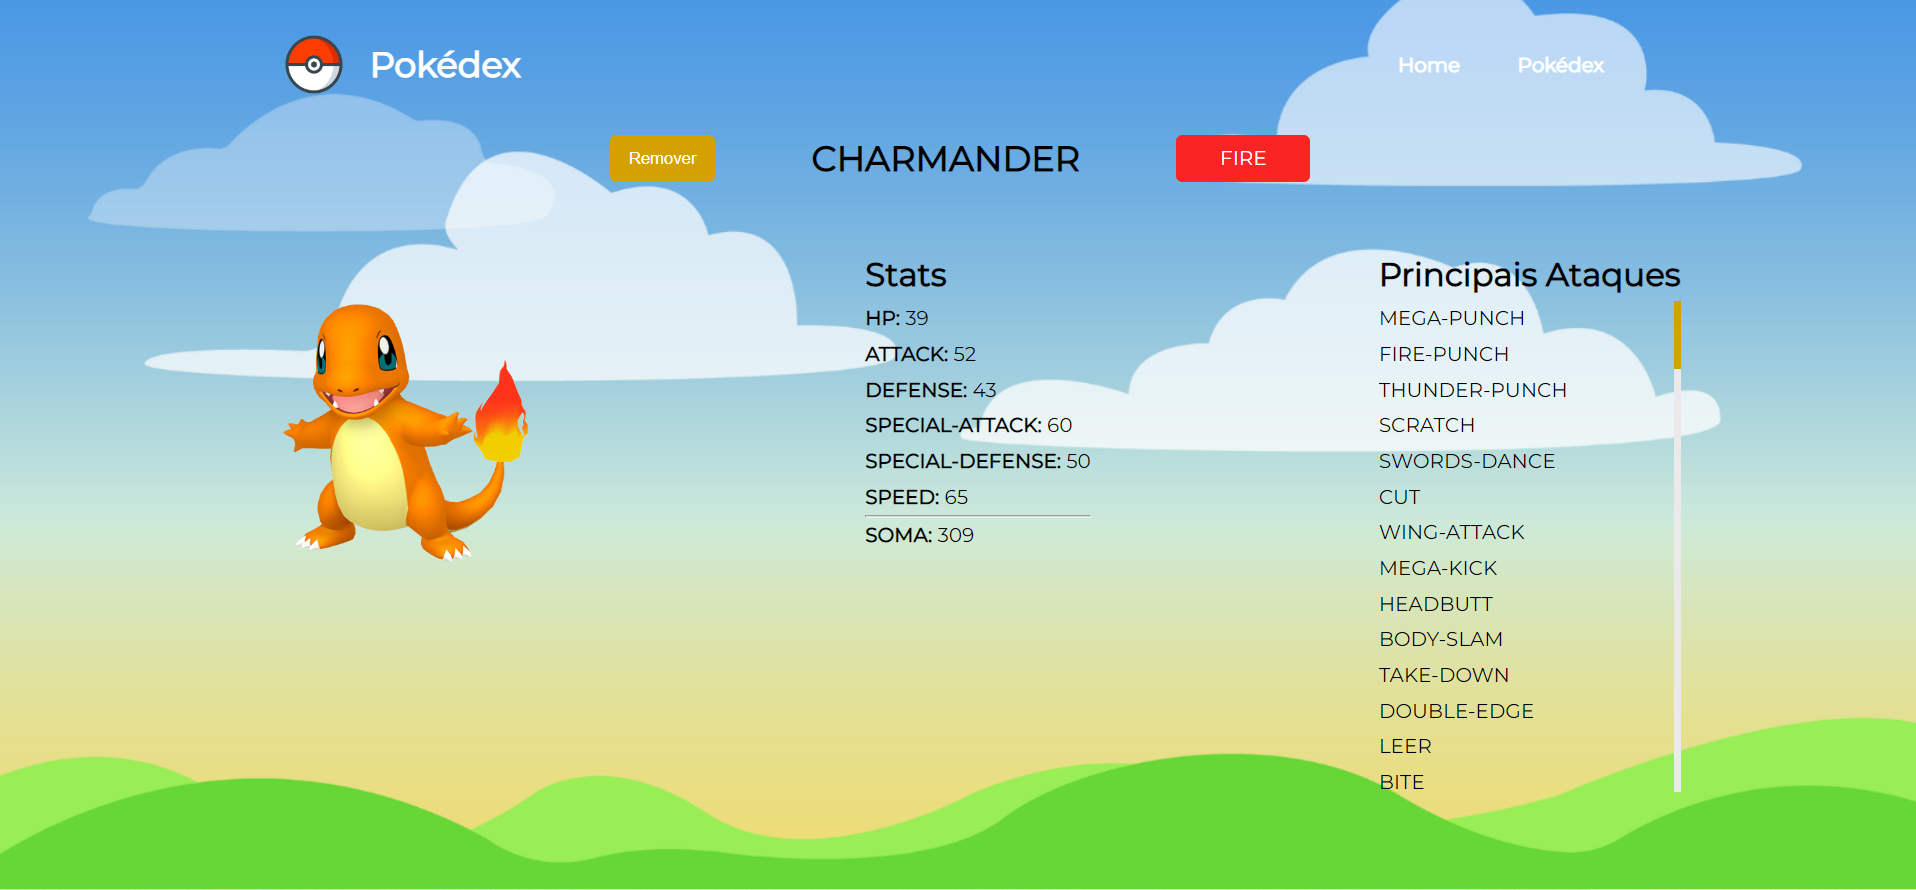
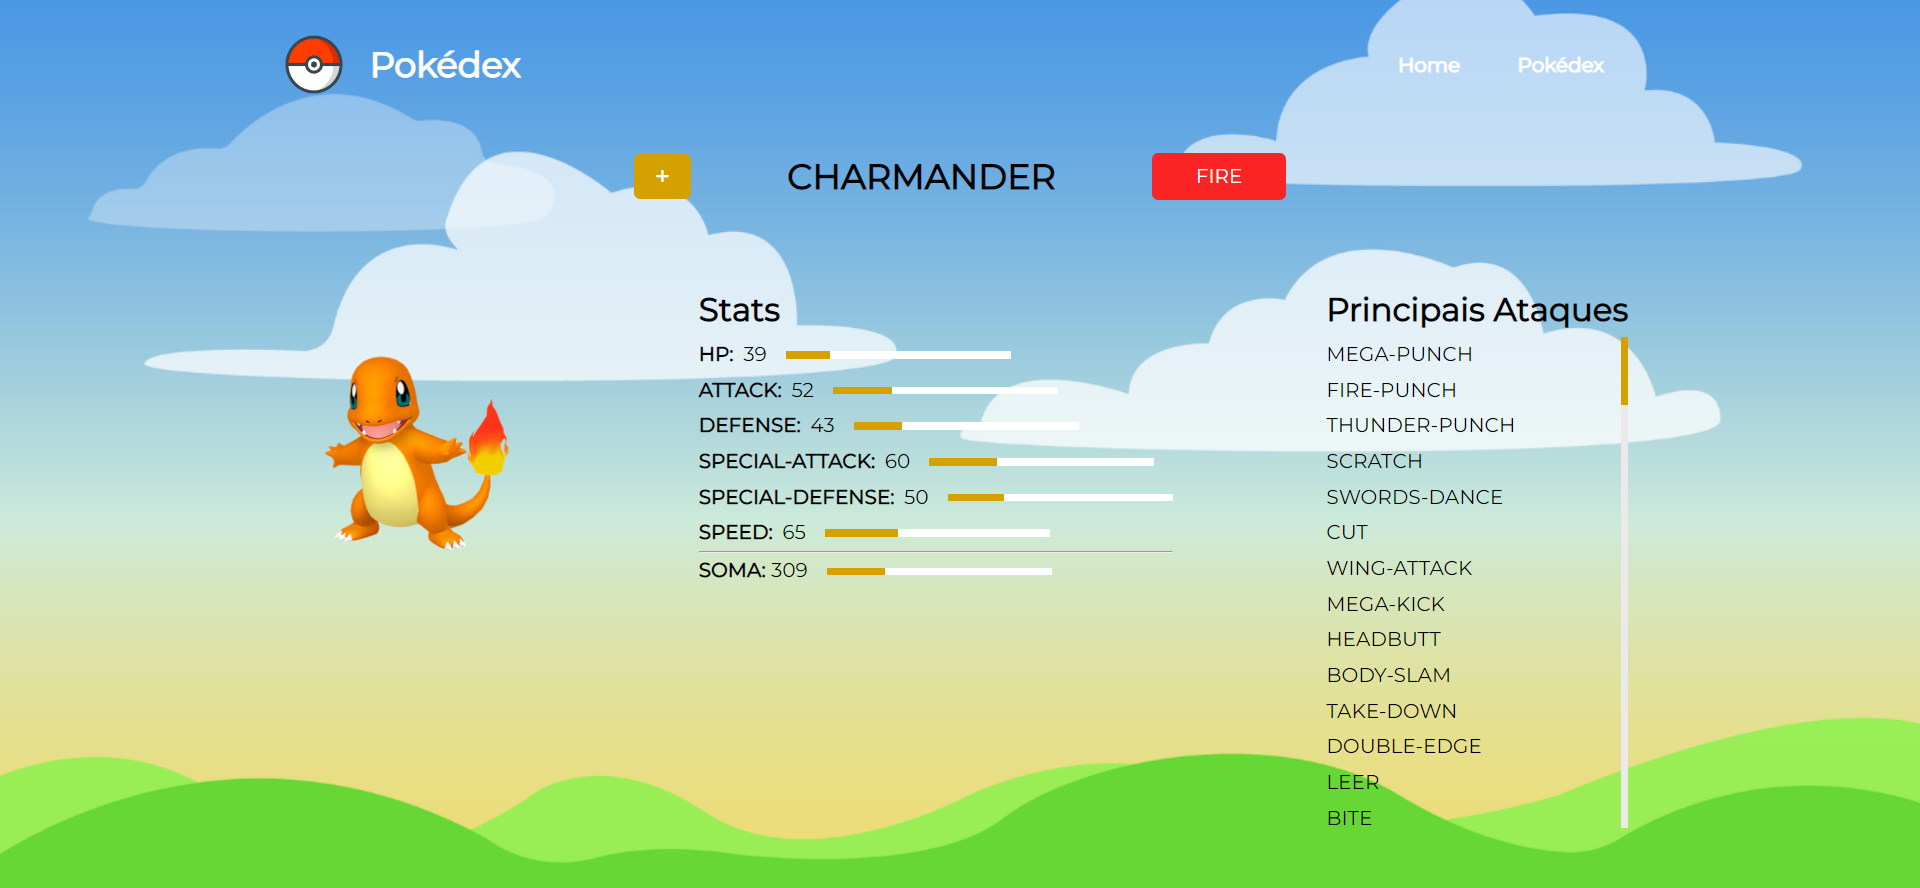
last version

diff --git a/src/components/Pages/DetailsPage/DetailsPage.jsx b/src/components/Pages/DetailsPage/DetailsPage.jsx
@@ -3,7 +3,7 @@ import { Header } from "../../Header/Header"
 import { useParams } from "react-router-dom";
 import { baseUrl } from "../../../constants/constants";
 import useRequestData from '../../../hooks/useRequestData'
-import { DetailsContainer, Container, TypesContainer, Loading, TypeList } from "./style";
+import { DetailsContainer, Container, TypesContainer, Loading, TypeList, PokemonStats } from "./style";
 import logo from '../../../img/logo.png'
 import { GlobalContext } from '../../../context/GlobalContext'
 import Swal from "sweetalert2";
@@ -23,15 +23,28 @@ export function DetailsPage() {
         listOfNames.push(pokedexList[i].name)
     }
 
-    //Pegando os detalhes de cada pokémon
+    //Pegando as stats de cada pokémon e a soma das stats
     let sum = []
     const listStats = dataPokemons && dataPokemons.stats.map((stat, index) => {
         sum.push(stat.base_stat)
+        const bar = (stat.base_stat / 200) * 100
         return (
-            <li key={index}><strong><span>{stat.stat.name.toUpperCase()}:</span></strong> {stat.base_stat}</li>
+            <PokemonStats percentage={bar}>
+                <li key={index}>
+                    <strong>{stat.stat.name.toUpperCase()}:</strong> {stat.base_stat}
+                </li>
+                <div>
+                    <div>
+                    </div>
+                </div>
+            </PokemonStats>
         )
     })
     
+    //Soma das stats
+    const sumStats = sum.reduce((prev, num) => parseInt(prev) + parseInt(num), 0)
+
+    //Tipos dos pokemons e cores de acordo com cada tipo
     const listTypes = dataPokemons && dataPokemons.types.map((type, index) => {  
         
         let colorBack
@@ -123,16 +136,15 @@ export function DetailsPage() {
     })
 
 
+    //Movimentos de cada pokemon
     const listMoves = dataPokemons && dataPokemons.moves.map((move, index) => {
         return (
             <li key={index}>{move.move.name.toUpperCase()}</li>
         )
     })
 
-    //Soma das stats
-    const sumStats = sum.reduce((prev, num) => parseInt(prev) + parseInt(num), 0)
 
-    //Adicionar ou remover pokémon da pokedéx
+    //Adicionar ou remover pokémon da pokédex
     const addOrRemove = () => {
         if(listOfNames.includes(pokemon)) {
             const remove = pokedexList.filter((item) => {
@@ -177,7 +189,12 @@ export function DetailsPage() {
                                 <>
                                     <ul>{listStats}</ul>
                                     <hr/>
-                                    <p><strong>SOMA:</strong> {sumStats}</p>
+                                    <PokemonStats percentage={(sumStats / 1200) * 100}>
+                                        <p><strong>SOMA:</strong> {sumStats}</p>
+                                        <div>
+                                            <div></div>
+                                        </div>
+                                    </PokemonStats>
                                 </>
                             )}
                         </div>    

diff --git a/src/components/Pages/DetailsPage/style.jsx b/src/components/Pages/DetailsPage/style.jsx
@@ -13,14 +13,14 @@ export const Container = styled.section `
     justify-content: center;
     margin: 0 6vw;
     padding-bottom: 5vh;
-    @media screen and (min-width: 1000px) {
-        gap: 15vw;   
+    @media screen and (min-width: 1200px) {
+        gap: 8vw;   
     }
-    @media screen and (min-width: 800px) and (max-width: 1000px) {
-        gap: 10vw;   
+    @media screen and (min-width: 1000px) and (max-width: 1200px) {
+        gap: 6vw;   
     }
-    @media screen and (max-width: 800px) {
-        gap: 5vw;   
+    @media screen and (max-width: 1000px) {
+        gap: 4vw;   
     }
     img {
         @media screen and (min-width: 1300px) {
@@ -28,24 +28,25 @@ export const Container = styled.section `
             height: 20%;
             margin-top: 4vh;
         }
-        @media screen and (min-width: 850px) and (max-width: 1300px) {
+        @media screen and (min-width: 701px) and (max-width: 1300px) {
             width: 20%;
             height: 25%;
             margin-top: 5vh;
         }
-        @media screen and (min-width: 500px) and (max-width: 850px) {
-            margin: 5vh 15vw 0 0;
+        @media screen and (min-width: 500px) and (max-width: 700px) {
             width: 30%;
             height: 35%;
         }
         @media screen and (min-width: 420px) and (max-width: 500px) {
             width: 40%;
             height: 45%;
-            margin: 6vh 4vw 0 0;
         }
         @media screen and (max-width: 420px) {
             width: 50%;
             height: 55%;
+        }
+        @media screen and (max-width: 1000px) {
+            margin-right: 5vw;
         }
     }
     div {
@@ -137,6 +138,26 @@ export const TypeList = styled.li `
         @media screen and (max-width: 525px){
             min-width: 20vw;
         }
+`
+
+export const PokemonStats = styled.section `
+    display: flex;
+    align-items: center;
+    gap: 1vw;
+    li {
+        display: flex;
+        gap: .5vw;
+    }
+    div {
+        background-color: #ffffff;
+        width: 180px;
+        height: 6px;
+        div {
+            background-color: var(--dark-yellow);
+            width: ${props => props.percentage}%;
+            height: 6px;
+        }
+    }
 `
 
 export const Loading = styled.img `

diff --git a/README.md b/README.md
@@ -2,7 +2,7 @@
 Este projeto foi desenvolvido como parte da fixação de conteúdo de ReactJS do curso de Web Full Stack da Labenu, e foi realizado utilizando a API pública PokéAPI. O projeto consiste em uma aplicação em que o usuário pode visualizar todos os tipos de Pokémons, e incluí-los em sua Pokédex. Na página inicial, é possível visualizar uma lista de Pokémons, selecionar para ver os detalhes de cada um deles (abrir página de detalhes), e adicioná-los em sua Pokédex. Já na página Pokédex, também é possível clicar para ver os detalhes do Pokémon, removê-lo da Pokédex, bem como iniciar uma batalha entre os Pokémons que estão na Pokédex.
 
 ## Link do Surge:
-https://fantastic-insurance.surge.sh/
+https://wrong-quicksand.surge.sh/
 
 ## Funcionalidades:
 - Requisição de todos os pokémons disponíveis na API;
